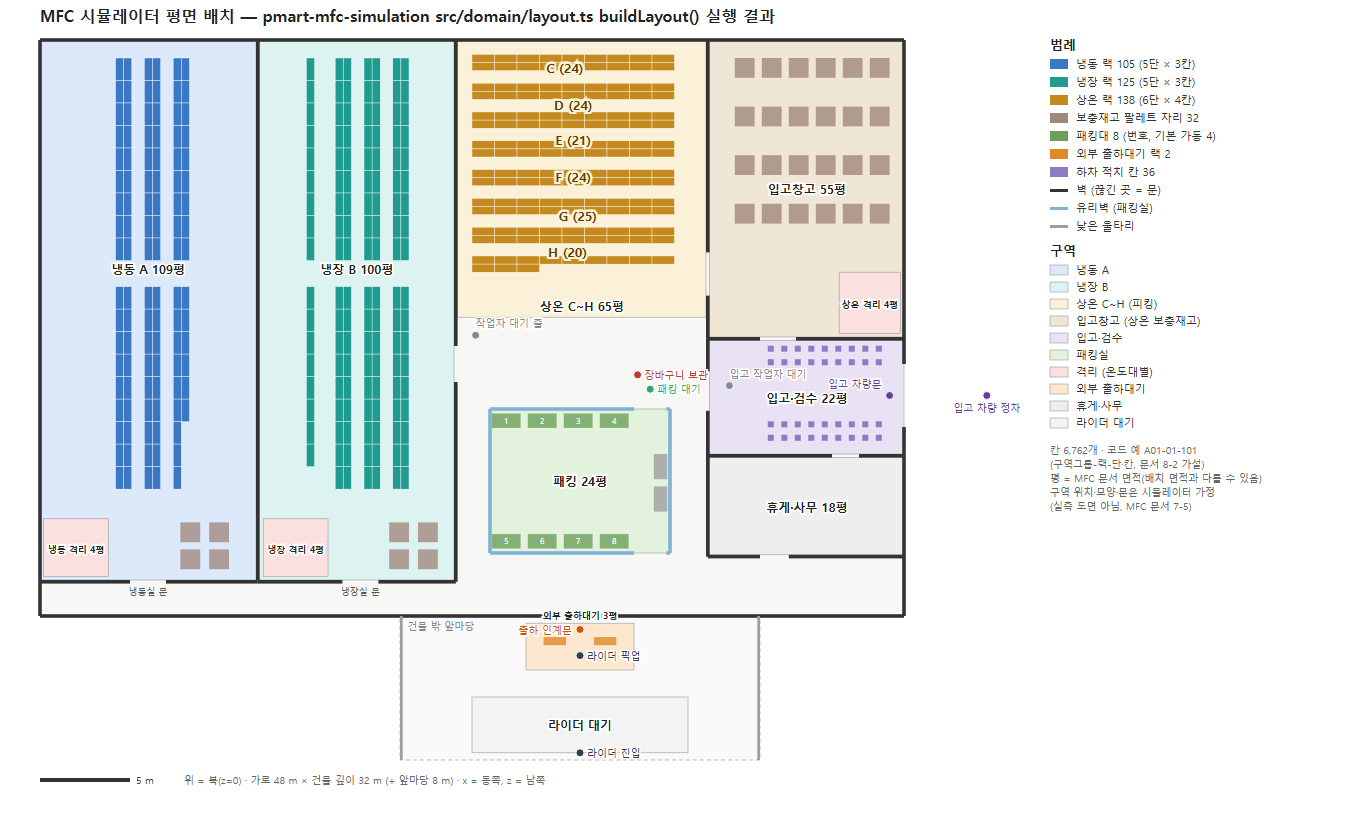
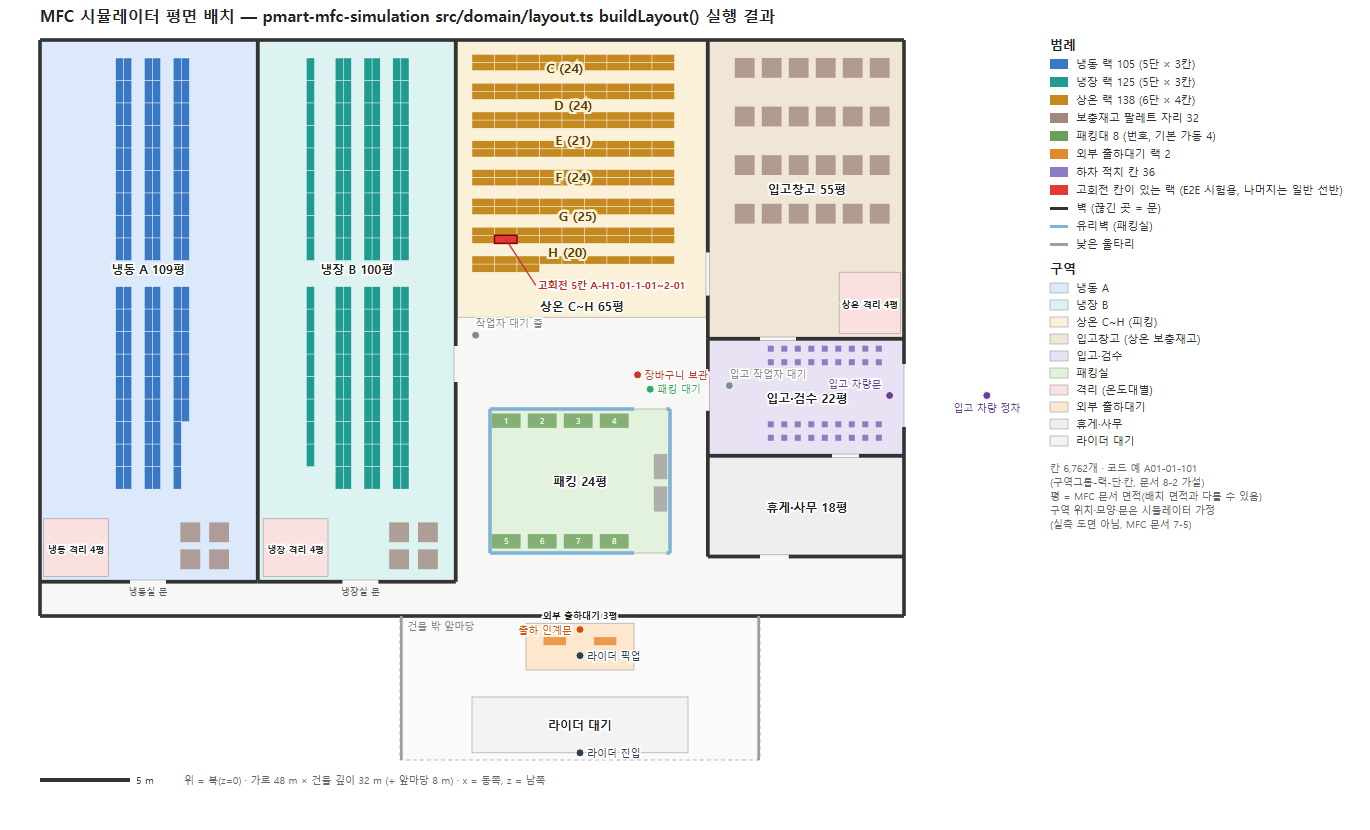
docs(simulator): 도면에 고회전 칸(H01-01 랙, A-H1 5칸) 표시 — high-turnover.json·draw.py 강조, httest 가 목록 갱신, 도면 README·시뮬레이터 공지 반영
Claude-Session: https://claude.ai/code/session_01NR2tLP3VxQ88VAH14xeSij

Changed region(s): [[0.7664, 0.2108, 0.981, 0.6325], [0.3679, 0.3313, 0.5212, 0.3614], [0.3372, 0.2711, 0.3985, 0.3012]]

diff --git a/docs/simulator/layout/tools/draw.py b/docs/simulator/layout/tools/draw.py
@@ -2,6 +2,11 @@ import json, sys, collections, html
 
 L = json.load(open(sys.argv[1], encoding='utf-8'))
 out = sys.argv[2]
+# 선택: 고회전 칸 목록(high-turnover.json) — 그 칸이 있는 랙을 강조한다
+HT = json.load(open(sys.argv[3], encoding='utf-8'))['bins'] if len(sys.argv) > 3 else []
+ht_racks = {}
+for b in HT:
+    ht_racks.setdefault(b['rackId'], []).append(b)
 S = 18.0  # px per m
 M = 40
 W_M = 55.0  # include truck outside east wall
@@ -53,6 +58,11 @@ for rk in L['racks']:
     lx, lz = (1.25, 0.45) if rk['along'] == 'x' else (0.45, 1.25)
     rect({'x0': rk['cx'] - lx / 2, 'z0': rk['cz'] - lz / 2, 'x1': rk['cx'] + lx / 2, 'z1': rk['cz'] + lz / 2},
          rack_fill[rk['temp']], 'stroke="#fff" stroke-width="0.4"')
+for rid, bins in ht_racks.items():
+    rk = next(r for r in L['racks'] if r['id'] == rid)
+    lx, lz = (1.25, 0.45) if rk['along'] == 'x' else (0.45, 1.25)
+    rect({'x0': rk['cx'] - lx / 2, 'z0': rk['cz'] - lz / 2, 'x1': rk['cx'] + lx / 2, 'z1': rk['cz'] + lz / 2},
+         '#e53935', 'stroke="#7f0000" stroke-width="1.5"')
 for d in L['dockSlots']:
     a(f'<rect x="{X(d["pos"]["x"]) - 3:.1f}" y="{Z(d["pos"]["z"]) - 3:.1f}" width="6" height="6" fill="#8e7cc3"/>')
 for w in L['walls']:
@@ -91,6 +101,13 @@ for s in L['stations']:
       f'text-anchor="middle">{s["id"].split("-")[1]}</text>')
 
 P = L['points']
+for rid, bins in ht_racks.items():
+    rk = next(r for r in L['racks'] if r['id'] == rid)
+    first, last = bins[0], bins[-1]
+    lab = f"고회전 {len(bins)}칸 {first['backend']}~{last['backend'][-4:]}"
+    a(f'<line x1="{X(rk["cx"]):.1f}" y1="{Z(rk["cz"]):.1f}" x2="{X(rk["cx"]) + 30:.1f}" y2="{Z(rk["cz"]) + 46:.1f}" stroke="#c62828" stroke-width="1.2"/>')
+    a(f'<text x="{X(rk["cx"]) + 32:.1f}" y="{Z(rk["cz"]) + 50:.1f}" font-size="10" font-weight="700" fill="#c62828" '
+      f'paint-order="stroke" stroke="#fff" stroke-width="3">{e(lab)}</text>')
 
 
 def dot(pt, col, lab, dx=6, dy=-6, anchor='start'):
@@ -123,7 +140,7 @@ y += 18
 items = [('box', rack_fill['FROZEN'], '냉동 랙 105 (5단 × 3칸)'), ('box', rack_fill['CHILLED'], '냉장 랙 125 (5단 × 3칸)'),
          ('box', rack_fill['AMBIENT'], '상온 랙 138 (6단 × 4칸)'), ('box', '#a1887f', '보충재고 팔레트 자리 32'),
          ('box', '#6d9f5b', '패킹대 8 (번호, 기본 가동 4)'), ('box', '#e08a2c', '외부 출하대기 랙 2'),
-         ('box', '#8e7cc3', '하차 적치 칸 36'), ('line', '#333', '벽 (끊긴 곳 = 문)'),
+         ('box', '#8e7cc3', '하차 적치 칸 36'), ('box', '#e53935', '고회전 칸이 있는 랙 (E2E 시험용, 나머지는 일반 선반)'), ('line', '#333', '벽 (끊긴 곳 = 문)'),
          ('line', '#7fb3d5', '유리벽 (패킹실)'), ('line', '#9e9e9e', '낮은 울타리')]
 for kind, col, lab in items:
     if kind == 'line':

diff --git a/deploy/lan/seed/mfc_layout.py b/deploy/lan/seed/mfc_layout.py
@@ -151,7 +151,7 @@ def plan():
         area = r["group"][0] + str(int(r["group"][1:]))
         code = f"{t}-{area}-{r['rackNo']:02d}-{loc['level']}-{loc['slot']:02d}"
         shelves.append({"locationCode": code, "zone": "STORAGE", "temperatureZone": loc["temp"],
-                        "pickSequence": seq, "highTurnover": False, "sim": loc["code"],
+                        "pickSequence": seq, "highTurnover": False, "sim": loc["code"], "rackId": loc["rackId"],
                         "position": {"xM": loc["pickX"], "zM": loc["pickZ"]},
                         # 칸 치수 = 도면 랙 규격(길이 1.25 m 의 90 % 를 칸 수로, 높이 2.1 m 를 단 수로, 깊이 0.45 m) — 재고 이동 용량 계산 입력
                         "dimensions": {"widthMm": round(RACK_LEN * 900 / r["slotsPerLevel"]),
@@ -316,6 +316,14 @@ def httest_step(s, shelves, existing):
         else:
             print("  고회전 지정 실패", x["locationCode"], st, bb.get("code"), bb.get("detail"))
     print("시험용 고회전 칸:", already)
+    # 도면에 강조할 목록(docs/simulator/layout/high-turnover.json → tools/draw.py 세 번째 인자)
+    by_code = {x["locationCode"]: x for x in shelves}
+    bins = [{"backend": c, "sim": by_code[c]["sim"], "rackId": by_code[c]["rackId"],
+             "pick": [by_code[c]["position"]["xM"], by_code[c]["position"]["zM"]]} for c in sorted(already)]
+    with open(os.path.join(os.path.dirname(LAYOUT), "high-turnover.json"), "w", encoding="utf-8") as f:
+        json.dump({"_comment": "E2E 시험용 고회전 칸(사용자 2026-11-09 — 선반은 일반 선반, 시험용으로 이 칸만 고회전). "
+                               "mfc_layout.py httest 가 지정·갱신. 도면 draw.py 가 강조해 그린다.", "bins": bins},
+                  f, ensure_ascii=False, indent=1)
     st, b = http("GET", f"{GW}/mfcs/{MFC}/replenishment-policies", s.sup())
     for p in b.get("items", []) if st == 200 else []:
         if old_shelf(p["locationCode"]):

diff --git a/docs/handoff/simulator/2026-11-09-simulator-notice-layout-bins.md b/docs/handoff/simulator/2026-11-09-simulator-notice-layout-bins.md
@@ -23,11 +23,11 @@
   - `position {xM, zM}`(mfc-location 0.6.0): 작업자가 서서 집는 지점, 미터, 평면 좌표계(x 동쪽, z 남쪽, 원점 건물 북서 모서리) — 시뮬레이터 `Location.pick` 과 같은 값.
   - `pickSequence`: 평면의 칸 순서(시뮬레이터 `locations` 배열 순서).
   - `dimensions`: 상온 칸 281×450×350 mm, 냉장·냉동 375×450×420 mm(랙 규격으로 계산), 팔레트 자리는 평면 사각형 × 높이 1.2 m(임시).
-  - `highTurnover`: **선반 칸은 일반 선반(false) — 임시**(사용자 결정, 나중에 특정 그룹만 고회전). E2E 시험용 고회전 칸만 true: `A-H1-01-1-01`~`04`·`A-H1-01-2-01`.
+  - `highTurnover`: **선반 칸은 일반 선반(false) — 임시**(사용자 결정, 나중에 특정 그룹만 고회전). E2E 시험용 고회전 칸만 true: `A-H1-01-1-01`~`04`·`A-H1-01-2-01` = 시뮬레이터 `H01-01-101`~`104`·`H01-01-201`(상온 H01 줄 1번 랙). 백엔드 도면(`docs/simulator/layout/floorplan.svg`)에 빨간 랙으로 표시했고, 목록은 `docs/simulator/layout/high-turnover.json`(백엔드·시뮬레이터 코드, 랙, 좌표).
 - 재고: 옛 시험 선반의 재고를 새 칸으로 옮겼다 — **SKU 하나 = 칸 하나**(같은 온도대, 평면 칸 순서 앞에서부터). 약 505개 칸만 재고가 있고 나머지는 비어 있다. 시뮬레이터의 가상 SKU 900개가 아니라 실서버의 실제 SKU(약 500개)다.
 
 ## 2. 시뮬레이터가 맞출 것 (SIM-6)
 1. 실서버 모드에서 칸 코드를 위 규칙으로 바꿔 매긴다(또는 백엔드 위치 목록의 `position` 으로 칸을 찾는다 — 같은 좌표).
 2. 선반 재고는 백엔드 재고(SKU·LOT·칸)로 그린다 — 칸마다 SKU 하나, 빈 칸 많음.
-3. 고회전·보충: 실서버에서는 시험용 5칸만 자동 보충 대상이다(보충 기준이 등록된 칸만, 지금 등록된 기준 없음). 시뮬레이터의 "모든 칸을 보충재고에서 채움"은 MOCK 모드 표현으로 남긴다.
+3. 고회전·보충: 시뮬레이터 화면에도 이 5칸(H01-01 랙)을 고회전으로 표시해 주세요. 실서버에서는 시험용 5칸만 자동 보충 대상이다(보충 기준이 등록된 칸만, 지금 등록된 기준 없음). 시뮬레이터의 "모든 칸을 보충재고에서 채움"은 MOCK 모드 표현으로 남긴다.
 4. 도면 밖 위치: `RTN-A-01`(회수), `MIGRATION`(이관용 가상 위치)은 평면에 자리가 없다 — 표시하지 않거나 입고·검수 근처에 둔다.

diff --git a/docs/simulator/layout/README.md b/docs/simulator/layout/README.md
@@ -9,7 +9,7 @@
   ```bash
   cd docs/simulator/layout/tools
   node dump.mts ../layout.json            # Node 23.6+ (TypeScript 그대로 실행)
-  python -I draw.py ../layout.json ../floorplan.svg
+  python -I draw.py ../layout.json ../floorplan.svg ../high-turnover.json   # 세 번째 인자 = 고회전 칸 강조(빼면 표시 안 함)
   ```
   `floorplan.png` 은 같은 그림의 이미지(브라우저 headless 캡처).
 
@@ -60,7 +60,7 @@ LAN `MFC-SEED-01` 의 칸을 이 도면대로 다시 등록했다(`deploy/lan/se
 
 - 온도대 글자는 백엔드 규칙(A 상온·C 냉장·F 냉동)이고, 구역 글자는 도면 그룹 글자(A 냉동·B 냉장·C~H 상온)를 그대로 쓴다 — 예 `F-A1`(냉동 A01 줄), `A-C1`(상온 C01 줄).
 - 옛 시험 선반(`A-S1-*`·`C-S1-*`·`F-S1-*`)과 옛 고회전 시험 칸 `A-S9-01-1-01` 의 재고(8,438개)는 위치 정정(approvalRef `layout-v1`)으로 새 칸에 옮기고(SKU 하나 = 칸 하나) 39칸 모두 닫았다. 센터 총량 8,499개 그대로. 옛 고회전 칸에 걸려 있던 자동 보충 기준(B-00000021)은 지우고, 담당이 없어 하루 넘게 재고를 붙잡던 보충 지시는 취소했다.
-- **E2E 시험용 고회전 칸**: `A-H1-01-1-01`~`04`·`A-H1-01-2-01`(상온 H01 줄, 일반 선반 중 시험용으로만 — 사용자 2026-11-09). 그 밖의 선반 칸은 일반 선반. 반품 `RTN-A-01` 과 이관용 가상 위치 `MIGRATION` 은 도면 밖이지만 그대로 둔다.
+- **E2E 시험용 고회전 칸**: `A-H1-01-1-01`~`04`·`A-H1-01-2-01`(시뮬레이터 `H01-01-101`~`104`·`H01-01-201`, 상온 H01 줄 1번 랙 — 일반 선반 중 시험용으로만, 사용자 2026-11-09). **도면에 빨간 랙으로 표시**한다. 목록은 `high-turnover.json`(`mfc_layout.py httest` 가 지정·갱신). 그 밖의 선반 칸은 일반 선반. 반품 `RTN-A-01` 과 이관용 가상 위치 `MIGRATION` 은 도면 밖이지만 그대로 둔다.
 
 ## 백엔드와 다른 점 (SIM-6 결정: 시뮬레이터가 맞춘다)
 
